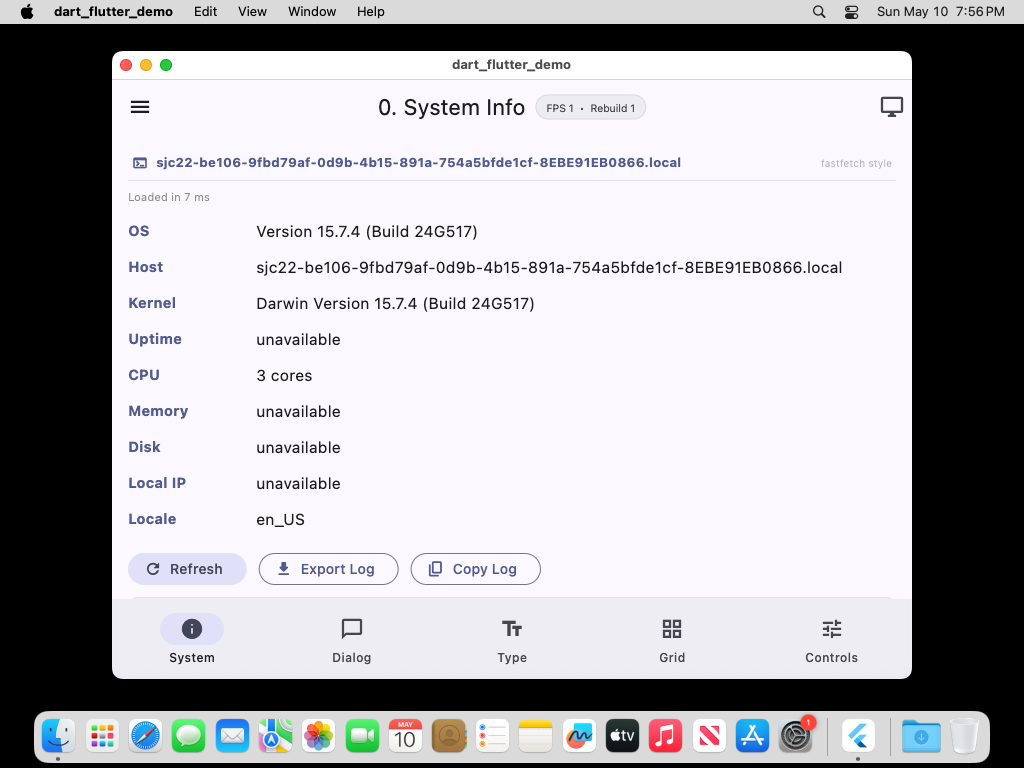
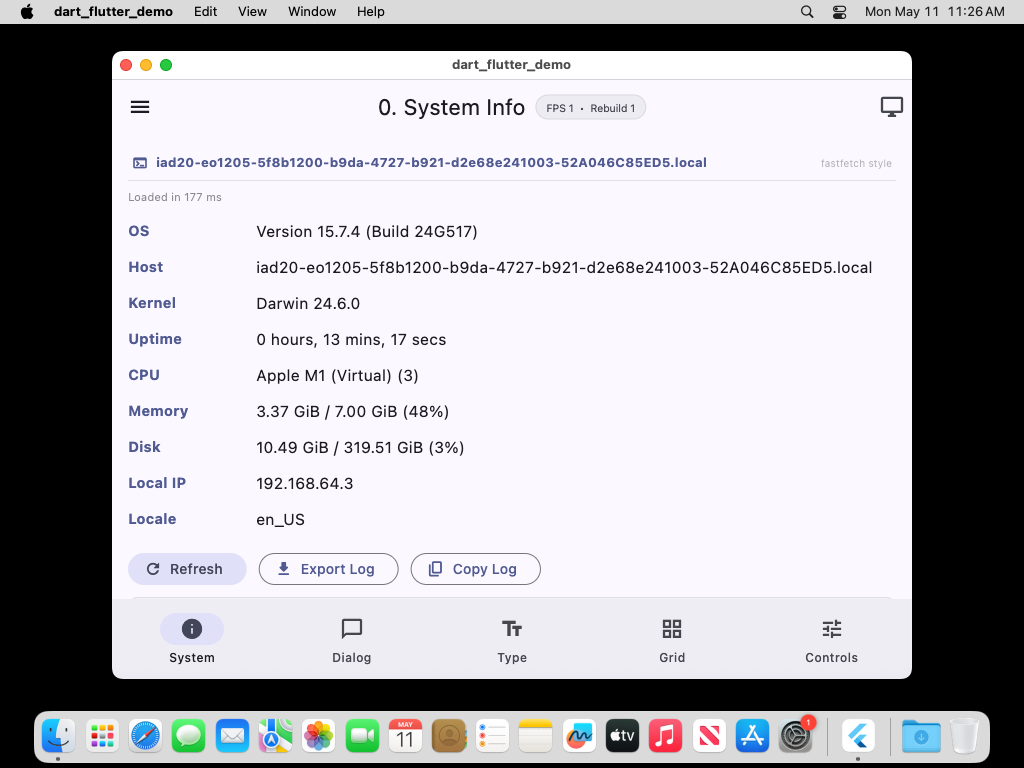
docs: readme增加图片

diff --git a/README.md b/README.md
@@ -15,7 +15,12 @@ git commit --allow-empty -m "start-empty"
 git push
 ```
 
-<img src="doc/images/preview.ssh.github.ci.runner.macos15.arm64.png" alt="SSH Session on macOS 15 ARM64" width="500"/>
+<img src="doc/images/preview.ssh.github.ci.runner.macos15.arm64.fastfetch.uname-a.sm_vers.arch.png" alt="SSH Session on macOS 15 ARM64 (fastfetch)" width="500"/>
+
+<br/>
+
+<img src="doc/images/preview.ssh.github.ci.runner.macos15.arm64.btop.png" alt="macOS 15 ARM64 btop" width="350"/>
+<img src="doc/images/preview.ssh.github.ci.runner.macos15.arm64.htop.png" alt="macOS 15 ARM64 htop" width="350"/>
 
 ### 2. Download and test winload
 

diff --git a/README.zh-cn.md b/README.zh-cn.md
@@ -15,7 +15,12 @@ git commit --allow-empty -m "start-empty"
 git push
 ```
 
-<img src="doc/images/preview.ssh.github.ci.runner.macos15.arm64.png" alt="macOS 15 ARM64 上的 SSH 会话" width="500"/>
+<img src="doc/images/preview.ssh.github.ci.runner.macos15.arm64.fastfetch.uname-a.sm_vers.arch.png" alt="macOS 15 ARM64 上的 SSH 会话（fastfetch）" width="500"/>
+
+<br/>
+
+<img src="doc/images/preview.ssh.github.ci.runner.macos15.arm64.btop.png" alt="macOS 15 ARM64 btop" width="350"/>
+<img src="doc/images/preview.ssh.github.ci.runner.macos15.arm64.htop.png" alt="macOS 15 ARM64 htop" width="350"/>
 
 ### 2. 下载并测试 winload
 